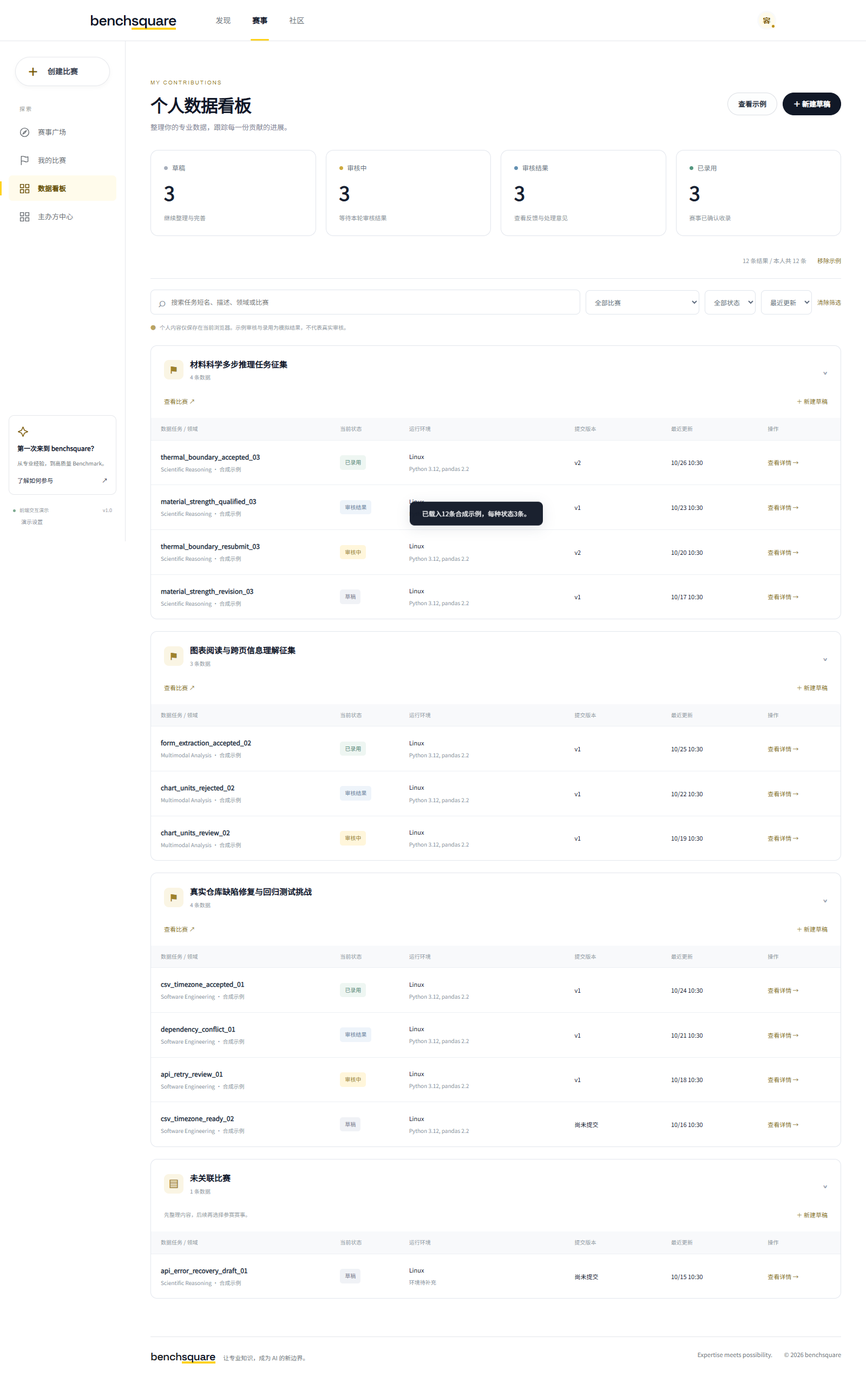
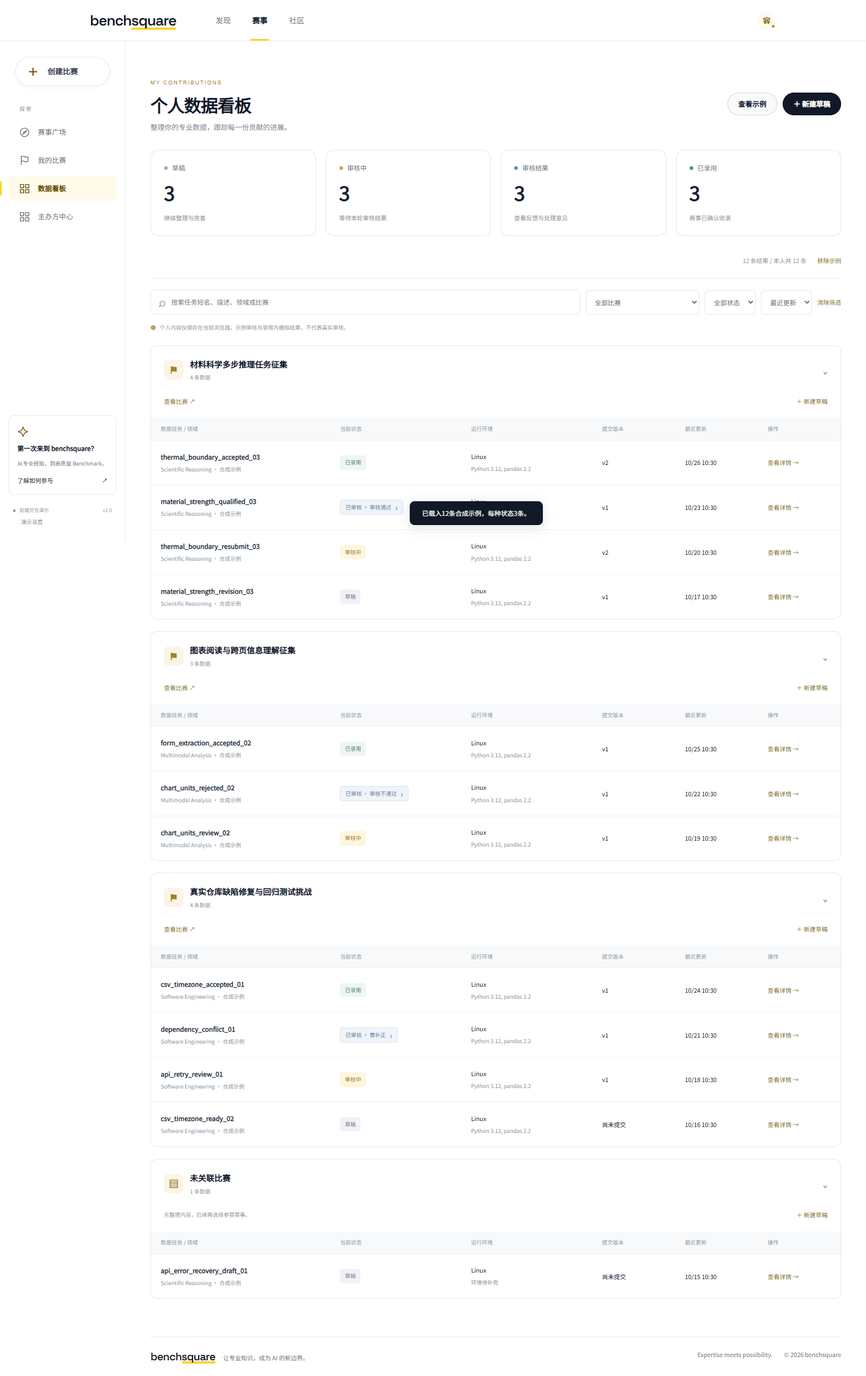
Open review result details directly from dashboard status buttons

diff --git a/frontend/data-dashboard.css b/frontend/data-dashboard.css
@@ -1,1 +1,3 @@
-.dd-page{padding-top:6px}.dd-page-heading{display:flex;justify-content:space-between;align-items:center;gap:24px;margin:12px 0 32px}.dd-eyebrow{font:10px/1.5 Arial,sans-serif;letter-spacing:2px;color:#9a7c22}.dd-page-heading h1{margin:9px 0 8px;font-size:32px;letter-spacing:-1px}.dd-page-heading p{margin:0;color:#7c8697;font-size:13px}.dd-heading-actions{display:flex;gap:10px}.dd-metrics{display:grid;grid-template-columns:repeat(4,minmax(0,1fr));gap:18px;margin-bottom:32px}.dd-metric{background:#fff;text-align:left;border:1px solid #e1e5ec;border-radius:14px;padding:22px 24px;cursor:pointer;transition:border-color .15s,transform .15s}.dd-metric:hover{border-color:#dfba41;transform:translateY(-2px)}.dd-metric>span{display:flex;align-items:center;gap:8px;font-size:12px;color:#677285}.dd-metric strong{display:block;font-size:36px;line-height:1.5;margin:8px 0;color:#172031;font-weight:600}.dd-metric small{font-size:11px;color:#8a92a0}.dd-state-dot{display:inline-block;width:7px;height:7px;border-radius:50%;background:#a7afbc}.dot-1{background:#ceab3f}.dot-2{background:#6491b2}.dot-3{background:#549780}.dd-controls{display:flex;align-items:center;gap:20px;padding-bottom:20px;border-bottom:1px solid #e6e9ef}.dd-controls p{color:#9099a7;font-size:11px;margin-left:auto}.dd-filters{display:flex;gap:10px;margin-top:20px;align-items:center}.dd-search{display:flex;align-items:center;gap:10px;border:1px solid #e0e5ec;border-radius:8px;padding:0 14px;background:#fff;flex:1}.dd-search>span{font-size:23px;color:#8b94a2}.dd-search input{width:100%;padding:12px 0;border:0;outline:none;background:transparent;font-size:12px}.dd-filters select{border:1px solid #e0e5ec;padding:12px;border-radius:8px;background:white;font-size:12px;max-width:210px;color:#606d80}.dd-text-button{border:0;background:transparent;color:#8c701c;font-size:11px;cursor:pointer;text-align:left;padding:4px 0}.dd-boundary{font-size:10px;color:#9199a7;margin:16px 0 24px;display:flex;gap:7px;align-items:center}.dd-boundary span{color:#b9a463}.dd-empty{text-align:center;padding:70px 20px;background:#fafbfc;border:1px dashed #dce1e8;border-radius:12px}.dd-empty>span{font-size:36px;color:#b6a476}.dd-empty h2{font-size:18px;color:#344052}.dd-empty p{font-size:12px;color:#8b95a3;margin-bottom:25px}.dd-group{border:1px solid #e2e6ed;border-radius:12px;margin-bottom:22px;overflow:hidden;background:#fff}.dd-group>summary{display:flex;align-items:center;gap:12px;cursor:pointer;list-style:none;padding:22px 24px;font-size:15px;font-weight:600}.dd-group>summary::-webkit-details-marker{display:none}.dd-group-icon{display:grid;place-items:center;background:#faf5e4;color:#9e822c;width:36px;height:36px;border-radius:9px;font-size:18px}.dd-group summary small{display:block;color:#929aa8;font-size:10px;font-weight:400;margin-top:4px}.dd-group-chevron{margin-left:auto;color:#9aa4b2}.dd-group:not([open]) .dd-group-chevron{transform:rotate(-90deg)}.dd-group-actions{display:flex;align-items:center;justify-content:space-between;padding:0 24px 18px;font-size:10px;color:#939ba7}.dd-table{width:100%;border-collapse:collapse;text-align:left;font-size:11px;table-layout:fixed}.dd-table th{padding:12px 18px;background:#f8f9fb;color:#929ba9;font-weight:400;font-size:10px}.dd-table th:first-child{width:26%}.dd-table th:nth-child(2){width:10%}.dd-table th:nth-child(3){width:24%}.dd-table th:last-child{width:12%}.dd-table td{padding:20px 18px;border-top:1px solid #edf0f4;vertical-align:middle;overflow-wrap:anywhere}.dd-record-title{border:0;background:none;color:#243044;font-size:12px;font-weight:600;cursor:pointer;padding:0;text-align:left;overflow-wrap:anywhere;line-height:1.6}.dd-record-title:hover{text-decoration:underline;color:#8f711b}.dd-row-meta{display:block;font-size:10px;color:#8c96a7;margin-top:6px;white-space:nowrap;overflow:hidden;text-overflow:ellipsis}.dd-status{display:inline-block;white-space:nowrap;font-size:10px;padding:5px 9px;border-radius:5px;background:#f0f2f6;color:#788293}.dd-status-1{background:#fff6db;color:#a18424}.dd-status-2{background:#eef4fa;color:#5b82a5}.dd-status-3{background:#eef6f2;color:#4b8971}.dd-board{display:grid;grid-template-columns:repeat(4,minmax(0,1fr));gap:16px;align-items:start}.dd-column{background:#f7f8fa;border:1px solid #edf0f4;border-radius:12px;padding:14px;min-height:260px}.dd-column>h2{display:flex;align-items:center;gap:7px;font-size:12px;margin:2px 1px 18px;font-weight:500}.dd-column>h2>span{margin-left:auto;color:#98a1af;font:11px Arial}.dd-task-card{background:white;border:1px solid #e3e7ed;border-radius:9px;padding:16px;margin-bottom:12px}.dd-card-top{display:flex;justify-content:space-between;gap:8px;margin-bottom:12px}.dd-card-domain{font-size:9px;color:#8c95a2;overflow:hidden;text-overflow:ellipsis;white-space:nowrap}.dd-example{font-size:9px;color:#b09d68;white-space:nowrap}.dd-task-card>p{font-size:11px;line-height:1.9;color:#7f8998;display:-webkit-box;-webkit-line-clamp:3;-webkit-box-orient:vertical;overflow:hidden;margin:10px 0 15px;white-space:pre-line}.dd-card-result{padding:10px;border-radius:6px;background:#fafaf7;font-size:10px;color:#798270}.dd-card-result small{display:block;font-size:9px;color:#a1a998;margin-top:4px}.dd-card-foot{display:flex;flex-direction:column;gap:7px;border-top:1px solid #f0f2f5;margin-top:14px;padding-top:12px;font-size:9px;color:#9aa3b0}.dd-task-card>.dd-text-button{margin-top:12px}.dd-column-empty{padding:30px 12px;text-align:center;color:#a0a9b6;font-size:11px}.dd-drawer-content{display:flex;flex-direction:column;flex:1;min-height:0}.dd-drawer-content iframe{min-height:0}.dd-picker{overflow:auto}.dd-picker-tabs{display:flex;justify-content:space-between;padding:20px 28px;border-bottom:1px solid #e6e9ed;font-size:12px}.dd-picker-body{padding:32px 28px}.dd-picker-body>h2{font-size:23px;margin:12px 0}.dd-picker-body>p{font-size:12px;color:#8791a1;line-height:1.9}.dd-picker-new{display:flex;width:100%;justify-content:space-between;align-items:center;border:1px dashed #d5c385;background:#fffdf5;padding:22px 18px;border-radius:10px;color:#7e651c;margin:25px 0;cursor:pointer;font-size:13px}.dd-picker-new span{font-size:10px;color:#ae9c65}.dd-picker-list>button{position:relative;text-align:left;display:block;width:100%;background:white;border:1px solid #e3e7ed;border-radius:9px;padding:20px 38px 20px 18px;margin-bottom:12px;cursor:pointer}.dd-picker-list strong{font-size:12px;overflow-wrap:anywhere;display:block}.dd-picker-list span{display:block;font-size:10px;color:#8c97a8;margin-top:8px}.dd-picker-list i{position:absolute;right:18px;top:25px;color:#9c8440;font-style:normal}.dd-picker-note{font-size:10px!important;padding-top:20px}.dd-edit-warning{background:#fff8e4;border:1px solid #eee2bc;border-radius:8px;padding:14px;font-size:11px;color:#937a34;margin-bottom:18px}.dd-association{border:1px solid #e3e7ed;border-radius:10px;padding:17px;margin-bottom:18px}.dd-association label{display:block;font-size:12px;font-weight:600;margin-bottom:10px}.dd-association select{width:100%;background:#fff;border:1px solid #dce2e8;border-radius:7px;padding:11px;font:inherit;font-size:12px}.dd-association p{font-size:10px;line-height:1.8;color:#8b96a5;margin-bottom:0}.dd-editor-tools{padding:0 0 18px;display:flex;justify-content:space-between;align-items:center;font-size:11px}.dd-file-download{border:0;background:none;font-size:10px;color:#977818;cursor:pointer;margin:4px 0;padding:0}
+.dd-page{padding-top:6px}.dd-page-heading{display:flex;justify-content:space-between;align-items:center;gap:24px;margin:12px 0 32px}.dd-eyebrow{font:10px/1.5 Arial,sans-serif;letter-spacing:2px;color:#9a7c22}.dd-page-heading h1{margin:9px 0 8px;font-size:32px;letter-spacing:-1px}.dd-page-heading p{margin:0;color:#7c8697;font-size:13px}.dd-heading-actions{display:flex;gap:10px}.dd-metrics{display:grid;grid-template-columns:repeat(4,minmax(0,1fr));gap:18px;margin-bottom:32px}.dd-metric{background:#fff;text-align:left;border:1px solid #e1e5ec;border-radius:14px;padding:22px 24px;cursor:pointer;transition:border-color .15s,transform .15s}.dd-metric:hover{border-color:#dfba41;transform:translateY(-2px)}.dd-metric>span{display:flex;align-items:center;gap:8px;font-size:12px;color:#677285}.dd-metric strong{display:block;font-size:36px;line-height:1.5;margin:8px 0;color:#172031;font-weight:600}.dd-metric small{font-size:11px;color:#8a92a0}.dd-state-dot{display:inline-block;width:7px;height:7px;border-radius:50%;background:#a7afbc}.dot-1{background:#ceab3f}.dot-2{background:#6491b2}.dot-3{background:#549780}.dd-controls{display:flex;align-items:center;gap:20px;padding-bottom:20px;border-bottom:1px solid #e6e9ef}.dd-controls p{color:#9099a7;font-size:11px;margin-left:auto}.dd-filters{display:flex;gap:10px;margin-top:20px;align-items:center}.dd-search{display:flex;align-items:center;gap:10px;border:1px solid #e0e5ec;border-radius:8px;padding:0 14px;background:#fff;flex:1}.dd-search>span{font-size:23px;color:#8b94a2}.dd-search input{width:100%;padding:12px 0;border:0;outline:none;background:transparent;font-size:12px}.dd-filters select{border:1px solid #e0e5ec;padding:12px;border-radius:8px;background:white;font-size:12px;max-width:210px;color:#606d80}.dd-text-button{border:0;background:transparent;color:#8c701c;font-size:11px;cursor:pointer;text-align:left;padding:4px 0}.dd-boundary{font-size:10px;color:#9199a7;margin:16px 0 24px;display:flex;gap:7px;align-items:center}.dd-boundary span{color:#b9a463}.dd-empty{text-align:center;padding:70px 20px;background:#fafbfc;border:1px dashed #dce1e8;border-radius:12px}.dd-empty>span{font-size:36px;color:#b6a476}.dd-empty h2{font-size:18px;color:#344052}.dd-empty p{font-size:12px;color:#8b95a3;margin-bottom:25px}.dd-group{border:1px solid #e2e6ed;border-radius:12px;margin-bottom:22px;overflow:hidden;background:#fff}.dd-group>summary{display:flex;align-items:center;gap:12px;cursor:pointer;list-style:none;padding:22px 24px;font-size:15px;font-weight:600}.dd-group>summary::-webkit-details-marker{display:none}.dd-group-icon{display:grid;place-items:center;background:#faf5e4;color:#9e822c;width:36px;height:36px;border-radius:9px;font-size:18px}.dd-group summary small{display:block;color:#929aa8;font-size:10px;font-weight:400;margin-top:4px}.dd-group-chevron{margin-left:auto;color:#9aa4b2}.dd-group:not([open]) .dd-group-chevron{transform:rotate(-90deg)}.dd-group-actions{display:flex;align-items:center;justify-content:space-between;padding:0 24px 18px;font-size:10px;color:#939ba7}.dd-table{width:100%;border-collapse:collapse;text-align:left;font-size:11px;table-layout:fixed}.dd-table th{padding:12px 18px;background:#f8f9fb;color:#929ba9;font-weight:400;font-size:10px}.dd-table th:first-child{width:26%}.dd-table th:nth-child(2){width:19%}.dd-table th:nth-child(3){width:19%}.dd-table th:last-child{width:12%}.dd-table td{padding:20px 18px;border-top:1px solid #edf0f4;vertical-align:middle;overflow-wrap:anywhere}.dd-record-title{border:0;background:none;color:#243044;font-size:12px;font-weight:600;cursor:pointer;padding:0;text-align:left;overflow-wrap:anywhere;line-height:1.6}.dd-record-title:hover{text-decoration:underline;color:#8f711b}.dd-row-meta{display:block;font-size:10px;color:#8c96a7;margin-top:6px;white-space:nowrap;overflow:hidden;text-overflow:ellipsis}.dd-status{display:inline-block;white-space:nowrap;font-size:10px;padding:5px 9px;border-radius:5px;background:#f0f2f6;color:#788293}.dd-status-1{background:#fff6db;color:#a18424}.dd-status-2{background:#eef4fa;color:#5b82a5}.dd-status-3{background:#eef6f2;color:#4b8971}.dd-board{display:grid;grid-template-columns:repeat(4,minmax(0,1fr));gap:16px;align-items:start}.dd-column{background:#f7f8fa;border:1px solid #edf0f4;border-radius:12px;padding:14px;min-height:260px}.dd-column>h2{display:flex;align-items:center;gap:7px;font-size:12px;margin:2px 1px 18px;font-weight:500}.dd-column>h2>span{margin-left:auto;color:#98a1af;font:11px Arial}.dd-task-card{background:white;border:1px solid #e3e7ed;border-radius:9px;padding:16px;margin-bottom:12px}.dd-card-top{display:flex;justify-content:space-between;gap:8px;margin-bottom:12px}.dd-card-domain{font-size:9px;color:#8c95a2;overflow:hidden;text-overflow:ellipsis;white-space:nowrap}.dd-example{font-size:9px;color:#b09d68;white-space:nowrap}.dd-task-card>p{font-size:11px;line-height:1.9;color:#7f8998;display:-webkit-box;-webkit-line-clamp:3;-webkit-box-orient:vertical;overflow:hidden;margin:10px 0 15px;white-space:pre-line}.dd-card-result{padding:10px;border-radius:6px;background:#fafaf7;font-size:10px;color:#798270}.dd-card-result small{display:block;font-size:9px;color:#a1a998;margin-top:4px}.dd-card-foot{display:flex;flex-direction:column;gap:7px;border-top:1px solid #f0f2f5;margin-top:14px;padding-top:12px;font-size:9px;color:#9aa3b0}.dd-task-card>.dd-text-button{margin-top:12px}.dd-column-empty{padding:30px 12px;text-align:center;color:#a0a9b6;font-size:11px}.dd-drawer-content{display:flex;flex-direction:column;flex:1;min-height:0}.dd-drawer-content iframe{min-height:0}.dd-picker{overflow:auto}.dd-picker-tabs{display:flex;justify-content:space-between;padding:20px 28px;border-bottom:1px solid #e6e9ed;font-size:12px}.dd-picker-body{padding:32px 28px}.dd-picker-body>h2{font-size:23px;margin:12px 0}.dd-picker-body>p{font-size:12px;color:#8791a1;line-height:1.9}.dd-picker-new{display:flex;width:100%;justify-content:space-between;align-items:center;border:1px dashed #d5c385;background:#fffdf5;padding:22px 18px;border-radius:10px;color:#7e651c;margin:25px 0;cursor:pointer;font-size:13px}.dd-picker-new span{font-size:10px;color:#ae9c65}.dd-picker-list>button{position:relative;text-align:left;display:block;width:100%;background:white;border:1px solid #e3e7ed;border-radius:9px;padding:20px 38px 20px 18px;margin-bottom:12px;cursor:pointer}.dd-picker-list strong{font-size:12px;overflow-wrap:anywhere;display:block}.dd-picker-list span{display:block;font-size:10px;color:#8c97a8;margin-top:8px}.dd-picker-list i{position:absolute;right:18px;top:25px;color:#9c8440;font-style:normal}.dd-picker-note{font-size:10px!important;padding-top:20px}.dd-edit-warning{background:#fff8e4;border:1px solid #eee2bc;border-radius:8px;padding:14px;font-size:11px;color:#937a34;margin-bottom:18px}.dd-association{border:1px solid #e3e7ed;border-radius:10px;padding:17px;margin-bottom:18px}.dd-association label{display:block;font-size:12px;font-weight:600;margin-bottom:10px}.dd-association select{width:100%;background:#fff;border:1px solid #dce2e8;border-radius:7px;padding:11px;font:inherit;font-size:12px}.dd-association p{font-size:10px;line-height:1.8;color:#8b96a5;margin-bottom:0}.dd-editor-tools{padding:0 0 18px;display:flex;justify-content:space-between;align-items:center;font-size:11px}.dd-file-download{border:0;background:none;font-size:10px;color:#977818;cursor:pointer;margin:4px 0;padding:0}
+
+.dd-review-button{border:1px solid #d8e5f1;cursor:pointer;font:inherit;font-size:10px;display:inline-flex;align-items:center;gap:7px;white-space:normal;text-align:left;line-height:1.6}.dd-review-button:hover{background:#dfeaf7;border-color:#8eaccb}.dd-review-button:focus-visible{outline:2px solid #8c701c;outline-offset:3px}.dd-review-button>span{font-size:16px;line-height:1}.dd-review-detail{padding:28px;overflow:auto;display:block}.dd-review-task h3{font-size:21px;overflow-wrap:anywhere;margin:10px 0}.dd-review-task>p{color:#8b94a2;font-size:12px}.dd-review-message{background:#f7faff;border:1px solid #dfe7f1;border-radius:12px;padding:24px;margin:24px 0}.dd-review-correction{background:#fffbed;border-color:#ead794}.dd-review-message h3{font-size:17px;margin:0 0 12px}.dd-review-meta{color:#8992a0;font-size:11px;line-height:1.8}.dd-review-message h4{font-size:13px;margin:24px 0 10px}.dd-review-content{white-space:pre-wrap;overflow-wrap:anywhere;font-size:14px;line-height:1.9;color:#263447}.dd-review-message>p:last-child,.dd-review-outcome{font-size:12px;color:#807a64;line-height:1.9}.dd-review-actions{display:flex;flex-wrap:wrap;gap:12px}.dd-review-note{margin-top:24px;color:#969eaa;font-size:10px}

diff --git a/frontend/data-dashboard.js b/frontend/data-dashboard.js
@@ -7,7 +7,7 @@
  const title=id=>competitions().find(c=>c.id===id)?.title||(id?'原赛事（当前不可用）':'未关联比赛');
  const date=s=>s?new Date(s).toLocaleString('zh-CN',{timeZone:'Asia/Shanghai',hour12:false,month:'2-digit',day:'2-digit',hour:'2-digit',minute:'2-digit'}):'—';
  function records(){try{readError='';return D.list(D.read(),user(),state);}catch(e){readError=e.message;return [];}}
- const badge=r=>'<span class="dd-status dd-status-'+D.statuses.indexOf(D.status(r))+'">'+D.label(r)+'</span>';
+ const badge=r=>D.status(r)==='已审核'?'<button type="button" class="dd-status dd-status-2 dd-review-button" data-data="review" data-id="'+E(r.id)+'" aria-label="'+E(D.reviewLabel(r)+'，查看结果详情')+'">'+E(D.reviewLabel(r))+' <span aria-hidden="true">›</span></button>':'<span class="dd-status dd-status-'+D.statuses.indexOf(D.status(r))+'">'+D.label(r)+'</span>';
  function row(r){const f=D.form(r);return `<tr><td><button class="dd-record-title" data-data="detail" data-id="${E(r.id)}">${E(f.name||'未命名草稿')}</button><span class="dd-row-meta">${E(f.domain||'领域待补充')}${r.mock?' · 合成示例':''}</span></td><td>${badge(r)}</td><td><span>${E((f.os||[]).join(' / ')||'—')}</span><span class="dd-row-meta">${E(f.software||'环境待补充')}</span></td><td><span>${r.revision?'v'+r.revision:'尚未提交'}</span></td><td><span>${date(r.updatedAt)}</span></td><td><button class="dd-text-button" data-data="detail" data-id="${E(r.id)}">查看详情 →</button></td></tr>`;}
  function results(){const own=records(),list=D.filter(own,filters,competitions());const target=document.querySelector('#dd-results');if(!target)return;
   document.querySelector('#dd-result-count').textContent=list.length+' 条结果 / 本人共 '+own.length+' 条';
@@ -19,12 +19,13 @@
  function closeOverlay(){if(!overlay)return;overlay.remove();overlay=null;background.forEach(([el,value])=>el.inert=value);background=[];document.body.style.overflow=overflow;if(originFocus?.isConnected)originFocus.focus();if(location.hash==='#data-dashboard')render();}
  function requestClose(){const iframe=overlay?.querySelector('iframe');if(iframe)iframe.contentWindow.postMessage({type:'submission-close-request'},location.origin);else {const destination=pendingDestination;pendingDestination='';closeOverlay();if(destination)location.hash=destination;}}
  function makeOverlay(cid){if(overlay){const content=overlay.querySelector('.dd-drawer-content');if(content)content.remove();return;}originFocus=document.activeElement;overflow=document.body.style.overflow;background=[...document.body.children].filter(el=>!['SCRIPT','STYLE'].includes(el.tagName)).map(el=>[el,el.inert]);background.forEach(([el])=>el.inert=true);overlay=document.createElement('div');overlay.className='submission-overlay dd-overlay';overlay.innerHTML=`<div class="submission-shade" data-dd-close></div><section class="submission-drawer" role="dialog" aria-modal="true" aria-labelledby="submission-drawer-title"><header class="submission-drawer-header"><div><span>个人数据与提交</span><h2 id="submission-drawer-title">${E(cid?title(cid):'个人数据')}</h2></div><button class="submission-drawer-close" aria-label="关闭提交面板" data-dd-close>×</button></header></section>`;document.body.append(overlay);document.body.style.overflow='hidden';overlay.querySelector('.submission-drawer-close').focus();overlay.addEventListener('click',e=>{if(e.target.closest('[data-dd-close]'))requestClose();});}
- function openEditor({id='',cid='',detail=false}={}){if(id&&!records().some(r=>r.id===id)){toast('当前身份无权访问这条记录。');return;}makeOverlay(cid);overlay.querySelector('.dd-picker')?.remove();const content=document.createElement('div');content.className='dd-drawer-content';const params=new URLSearchParams({dashboard:'1',embed:'1',fresh:crypto.randomUUID()});if(id)params.set('item',id);if(cid)params.set('competition',cid);content.innerHTML='<iframe title="比赛数据提交表单" src="submission.html?'+params.toString()+'#'+(detail?'detail/'+encodeURIComponent(id):'new')+'"></iframe>';overlay.querySelector('section').append(content);}
+ function openEditor({id='',cid='',detail=false}={}){if(id&&!records().some(r=>r.id===id)){toast('当前身份无权访问这条记录。');return;}makeOverlay(cid);overlay.querySelector('.dd-picker')?.remove();overlay.querySelector('#submission-drawer-title').textContent=cid?title(cid):'个人数据';const content=document.createElement('div');content.className='dd-drawer-content';const params=new URLSearchParams({dashboard:'1',embed:'1',fresh:crypto.randomUUID()});if(id)params.set('item',id);if(cid)params.set('competition',cid);content.innerHTML='<iframe title="比赛数据提交表单" src="submission.html?'+params.toString()+'#'+(detail?'detail/'+encodeURIComponent(id):'new')+'"></iframe>';overlay.querySelector('section').append(content);}
+ function openReview(r){const info=D.reviewInfo(r),current=info.current;makeOverlay(r.competitionId||'');overlay.querySelector('#submission-drawer-title').textContent='审核结果详情';const content=document.createElement('div');content.className='dd-drawer-content dd-review-detail';content.innerHTML=`<div class="dd-review-task"><span class="dd-eyebrow">REVIEW RESULT</span><h3>${E(D.form(r).name||'未命名任务')}</h3><p>${E(title(r.competitionId))}</p></div><div class="dd-review-message ${info.correction?'dd-review-correction':''}"><h3>${E(D.reviewLabel(r))}</h3><p class="dd-review-meta">提交版本 v${E(r.revision||1)}${current?' · '+E(current.by||'演示评审员')+' · '+E(date(current.at)):''}</p><h4>${info.correction?'补正要求':'具体消息'}</h4><p class="dd-review-content">${E(info.note||'暂无具体审核消息。')}</p>${info.outcome!==D.reviewLabel(r).split(' · ').slice(1).join(' · ')?'<p class="dd-review-outcome">'+E(info.outcome)+'</p>':''}${info.correction?'<p>请按以上要求修改后重新提交；保存草稿不增加版本，重提后进入新一轮审核。</p>':''}</div><div class="dd-review-actions">${info.correction?'<button class="button dark" data-data="edit" data-id="'+E(r.id)+'">'+(r.draftForm?'继续修改草稿':'修改并重提')+' →</button>':''}<button class="button" data-data="detail" data-id="${E(r.id)}">查看完整任务</button></div><p class="dd-review-note">本地 Demo：示例审核与录用为模拟结果。</p>`;overlay.querySelector('section').append(content);}
  function openCompetition(cid){makeOverlay(cid);const own=records(),drafts=D.drafts(own,cid);const content=document.createElement('div');content.className='dd-drawer-content dd-picker';content.innerHTML=`<div class="dd-picker-tabs"><strong>提交数据</strong></div><div class="dd-picker-body"><span class="dd-eyebrow">CONTINUE YOUR WORK</span><h2>从草稿中选择</h2><p>只展示本比赛与未关联比赛的个人草稿。选择后核对内容，保存或提交时才关联本赛事。</p><button class="dd-picker-new" data-dd-new>＋ 新建数据任务 <span>从空白开始 →</span></button><div class="dd-picker-list">${drafts.length?drafts.map(r=>`<button data-dd-draft="${E(r.id)}"><strong>${E(D.form(r).name||'未命名草稿')}</strong><span>${E(r.competitionId?'本比赛草稿':'通用草稿')} · ${date(r.updatedAt)}${r.mock?' · 合成示例':''}</span><i>→</i></button>`).join(''):'<div class="dd-column-empty">还没有适用草稿，可以新建数据任务。</div>'}</div><p class="dd-picker-note">草稿保存不受组队或提交截止限制；正式提交时重新检查参赛资格和赛程。</p></div>`;overlay.querySelector('section').append(content);content.querySelector('[data-dd-new]').onclick=()=>openEditor({cid});content.querySelectorAll('[data-dd-draft]').forEach(b=>b.onclick=()=>openEditor({id:b.dataset.ddDraft,cid}));}
  const oldRender=render;render=function(){oldRender();if(location.hash!=='#data-dashboard')return;document.body.classList.remove('portal-page');document.querySelector('#main').innerHTML=dashboard();document.title='个人数据看板 · benchsquare';document.querySelectorAll('[data-nav]').forEach(a=>a.classList.toggle('active',a.dataset.nav==='data-dashboard'));results();};
  document.addEventListener('input',e=>{if(e.target.id==='dd-search'){filters.search=e.target.value;results();}});
  document.addEventListener('change',e=>{const key=({'dd-competition':'competition','dd-stage':'stage','dd-sort':'sort'})[e.target.id];if(key){filters[key]=e.target.value;results();}});
- document.addEventListener('click',e=>{const b=e.target.closest('[data-data]');if(!b)return;const action=b.dataset.data;if(action==='new')openEditor({cid:b.dataset.cid||''});if(['detail','edit'].includes(action)){const r=records().find(r=>r.id===b.dataset.id);if(r)openEditor({id:r.id,cid:r.competitionId||'',detail:action==='detail'||D.locked(r)});}if(action==='stage'){filters.stage=filters.stage===b.dataset.stage?'':b.dataset.stage;render();}if(action==='clear'){Object.assign(filters,{search:'',competition:'',stage:'',sort:'updated'});render();}if(action==='examples'){try{const s=D.read(),existing=new Set(s.records.map(r=>r.id));s.records.push(...DataMocks.generate(user()).filter(r=>!existing.has(r.id)));localStorage.setItem(D.key,JSON.stringify(s));render();toast('已载入12条合成示例，每种状态3条。');}catch{toast('示例未保存，请检查浏览器存储。');}}if(action==='remove-examples'){if(!confirm('移除当前身份的合成示例？你创建的数据不会删除。'))return;try{const s=D.read();s.records=s.records.filter(r=>!(r.mock&&D.owner(r,state)===user()));localStorage.setItem(D.key,JSON.stringify(s));render();}catch{toast('示例移除失败，请重试。');}}});
+ document.addEventListener('click',e=>{const b=e.target.closest('[data-data]');if(!b)return;const action=b.dataset.data;if(action==='new')openEditor({cid:b.dataset.cid||''});if(action==='review'){const r=records().find(r=>r.id===b.dataset.id);if(r&&D.status(r)==='已审核')openReview(r);}if(['detail','edit'].includes(action)){const r=records().find(r=>r.id===b.dataset.id);if(r)openEditor({id:r.id,cid:r.competitionId||'',detail:action==='detail'||D.locked(r)});}if(action==='stage'){filters.stage=filters.stage===b.dataset.stage?'':b.dataset.stage;render();}if(action==='clear'){Object.assign(filters,{search:'',competition:'',stage:'',sort:'updated'});render();}if(action==='examples'){try{const s=D.read(),existing=new Set(s.records.map(r=>r.id));s.records.push(...DataMocks.generate(user()).filter(r=>!existing.has(r.id)));localStorage.setItem(D.key,JSON.stringify(s));render();toast('已载入12条合成示例，每种状态3条。');}catch{toast('示例未保存，请检查浏览器存储。');}}if(action==='remove-examples'){if(!confirm('移除当前身份的合成示例？你创建的数据不会删除。'))return;try{const s=D.read();s.records=s.records.filter(r=>!(r.mock&&D.owner(r,state)===user()));localStorage.setItem(D.key,JSON.stringify(s));render();}catch{toast('示例移除失败，请重试。');}}});
  window.addEventListener('message',e=>{if(e.origin!==location.origin||e.source!==overlay?.querySelector('iframe')?.contentWindow)return;if(e.data?.type==='submission-close-approved'){const destination=pendingDestination;pendingDestination='';closeOverlay();if(destination)location.hash=destination;}if(e.data?.type==='submission-close-cancelled')pendingDestination='';if(e.data?.type==='submission-dashboard-request'){closeOverlay();location.hash='#data-dashboard';}});
  document.addEventListener('keydown',e=>{if(overlay&&e.key==='Escape'&&!document.querySelector('.unsaved-dialog[open]')){e.preventDefault();requestClose();}});
  window.addEventListener('hashchange',e=>{if(!overlay)return;e.stopImmediatePropagation();pendingDestination=new URL(e.newURL).hash;history.replaceState(null,'',e.oldURL);render();requestClose();},{capture:true});window.addEventListener('storage',e=>{if(location.hash==='#data-dashboard'&&[D.key,'ale-frontend-v1'].includes(e.key))render();});

diff --git a/frontend/data-items.js b/frontend/data-items.js
@@ -19,5 +19,6 @@
     const correction=!!r.competitionId&&!locked(r)&&(current?.to==='需修改'||(!current&&legacy&&(r.status==='需修改'||r.reviewOutcome==='需补正')));
     return {current,correction,note:current?.note||(legacy?r.reviewNote||'':''),outcome:correction?'需补正':result(r)};
   }
-  const api={key,statuses,owner,status,label,reviewInfo,locked,form,read,list,filter,drafts,result};if(typeof module!=='undefined')module.exports=api;else root.DataItems=api;
+  const reviewLabel=r=>'已审核 · '+reviewInfo(r).outcome.split(' · ')[0];
+  const api={key,statuses,owner,status,label,reviewInfo,reviewLabel,locked,form,read,list,filter,drafts,result};if(typeof module!=='undefined')module.exports=api;else root.DataItems=api;
 })(typeof window==='undefined'?globalThis:window);

diff --git a/docs/submission/personal-dashboard.md b/docs/submission/personal-dashboard.md
@@ -1,6 +1,6 @@
 # 个人数据看板：状态与审核消息
 
-版本：v2.1｜更新日期：2026-11-03
+版本：v2.2｜更新日期：2026-11-04
 
 对应[飞书个人数据看板 PRD](https://xcnhc87xvcni.feishu.cn/wiki/KuP4wFgtdifEhUkh9fNc6U4Lngg)。本文件记录本次列表与详情调整，其他业务规则沿用在线 PRD。
 
@@ -8,13 +8,17 @@
 
 列表删除“最近审核与反馈”整列，保留数据任务/领域、当前状态、运行环境、提交版本、最近更新、操作六列。所有记录统一点击“查看详情”，也可点击任务名称进入详情。
 
-当前状态展示为草稿、审核中、审核结果、已录用；统计卡和状态筛选使用相同名称。“审核结果”兼容原有“已审核”存储值，不迁移或改写历史记录。
+当前状态列保留草稿、审核中、已录用。已审核记录显示可点击按钮：“已审核 · 需补正”“已审核 · 审核通过”“已审核 · 审核不通过”。点击直接打开“审核结果详情”，展示本轮具体消息、版本、处理人和时间；需补正时可点击修改并重提，也可查看完整任务。顶部统计和筛选仍归入审核结果分类，原存储状态与历史记录保留。
 
 详情顶部展示当前提交版本的审核消息，包括结论、具体内容、提交版本，以及已有的处理人和时间。需补正时突出完整问题和修改要求，长文本换行展示，不能在列表用截断摘要替代。没有本轮结果时显示审核正在进行；没有消息时明确显示占位，不编造补正要求。
 
 草稿详情提供“继续编辑”；本轮需补正记录提供“修改并重提”，已有工作副本可继续修改。审核中、通过待录用、审核不通过、已录用保持只读。旧版本补正意见不能解锁新一轮审核中的记录。
 
 历次审核记录独立折叠展示，保留版本、结论、意见、处理人和时间。保存工作副本不增加提交版本，正式重提成功才增加版本并生成快照。
+
+## 当前状态结果入口
+
+![点击已审核状态按钮查看具体消息](./dashboard-status-result.png)
 
 ## 流程图
 
@@ -41,8 +45,8 @@
 | 场景 | 预期结果 |
 | --- | --- |
 | 打开个人数据看板 | 不再展示审核反馈列；六列完整；操作统一为查看详情 |
-| 查看统计、筛选和记录状态 | 已审核统一显示为审核结果，筛选数量与原记录一致 |
-| 打开本轮需补正记录 | 详情顶部可见具体补正要求、版本、处理人、时间及修改入口 |
+| 查看统计、筛选和记录状态 | 已审核记录显示已审核 · 具体结果按钮，筛选数量与原记录一致 |
+| 打开本轮需补正记录 | 点击状态按钮即可见具体补正要求、版本、处理人、时间及修改入口 |
 | 打开重新提交审核的记录 | 展示本轮审核进度，不把旧版本要求当作当前补正消息，无编辑入口 |
 | 打开通过、未通过或已录用记录 | 消息与正式内容只读，附件与历史快照仍可查看 |
 | 补正保存或重提 | 保存不增版本，重提增版本，原提交内容与审核历史保留 |

diff --git a/frontend/README.md b/frontend/README.md
@@ -103,3 +103,5 @@
 个人数据看板中，审核中、审核通过待录用、已录用及审核不通过的数据均为只读，仅可查看详情、下载附件和查看提交历史。仅草稿和明确退回补正的数据允许编辑、保存及重新提交。只读记录若留有旧修改草稿，展示正式提交内容，保留历史存储但不开放继续修改。提交版本按正式提交次数递增，保存草稿不增加版本；最近更新展示最近保存、提交或审核状态变化的时间。
 
 2026-11-03：列表删除“最近审核与反馈”列，展示“草稿、审核中、审核结果、已录用”。各状态统一进入“查看详情”，详情顶部展示本轮具体审核消息与补正要求，再按权限进入编辑；历史意见单独折叠。PRD 与原型见 [个人数据看板调整](../docs/submission/personal-dashboard.md)。
+
+2026-11-04：当前状态中的已审核记录改为“已审核 · 需补正/审核通过/审核不通过”按钮，点击直达审核结果详情及具体消息；仅本轮需补正提供修改入口。
